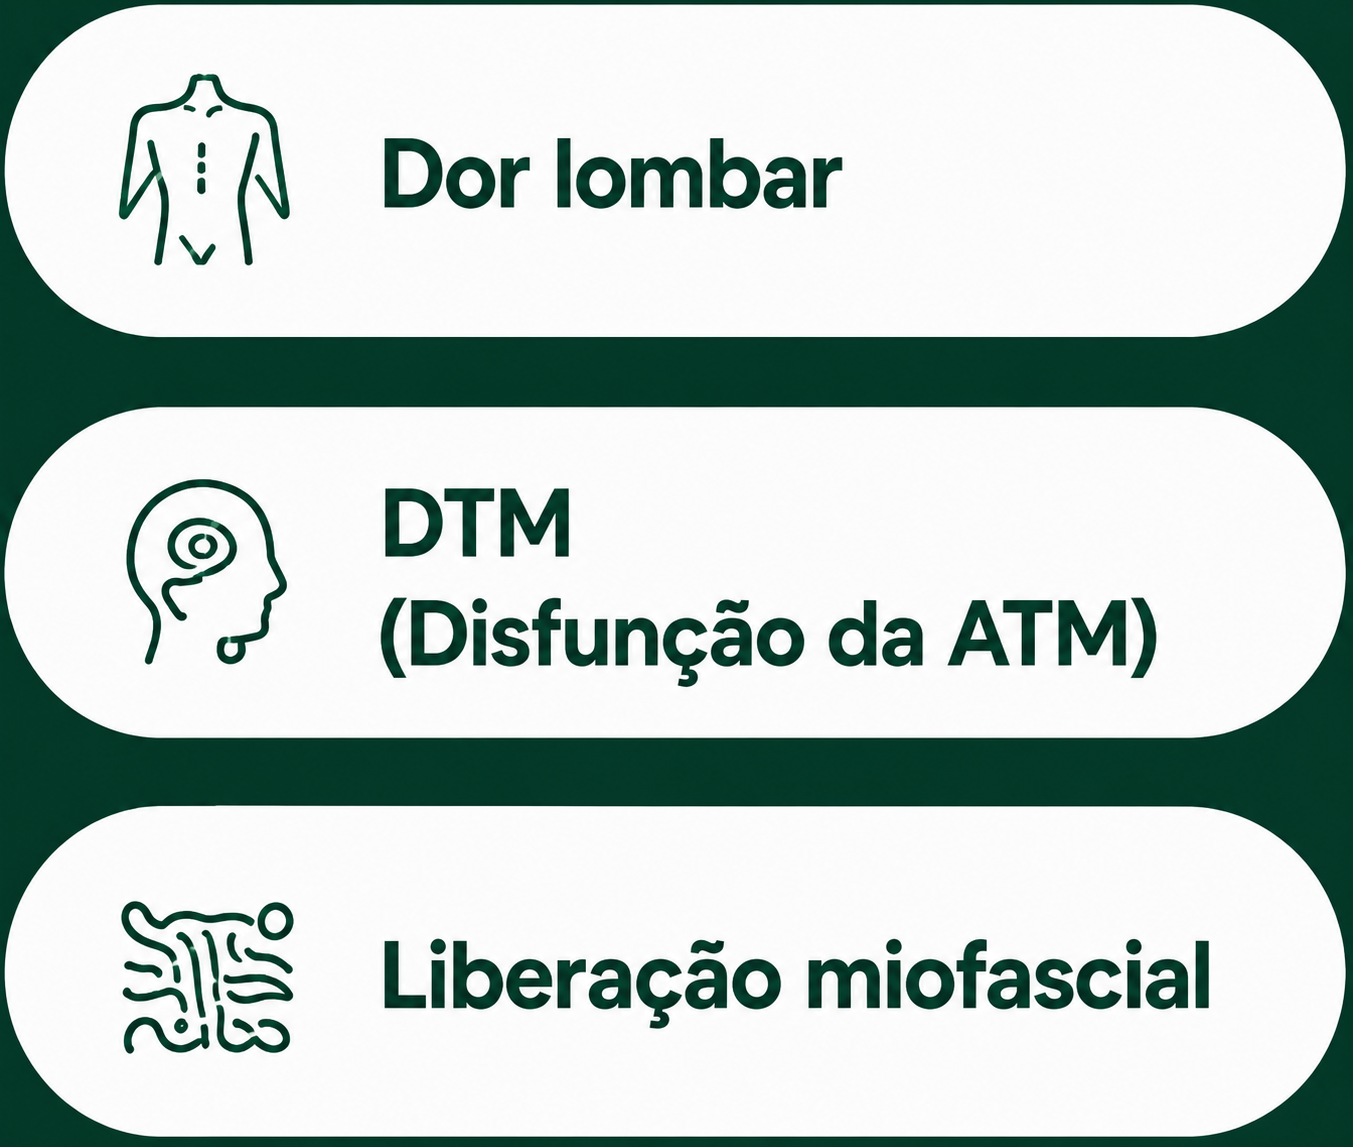
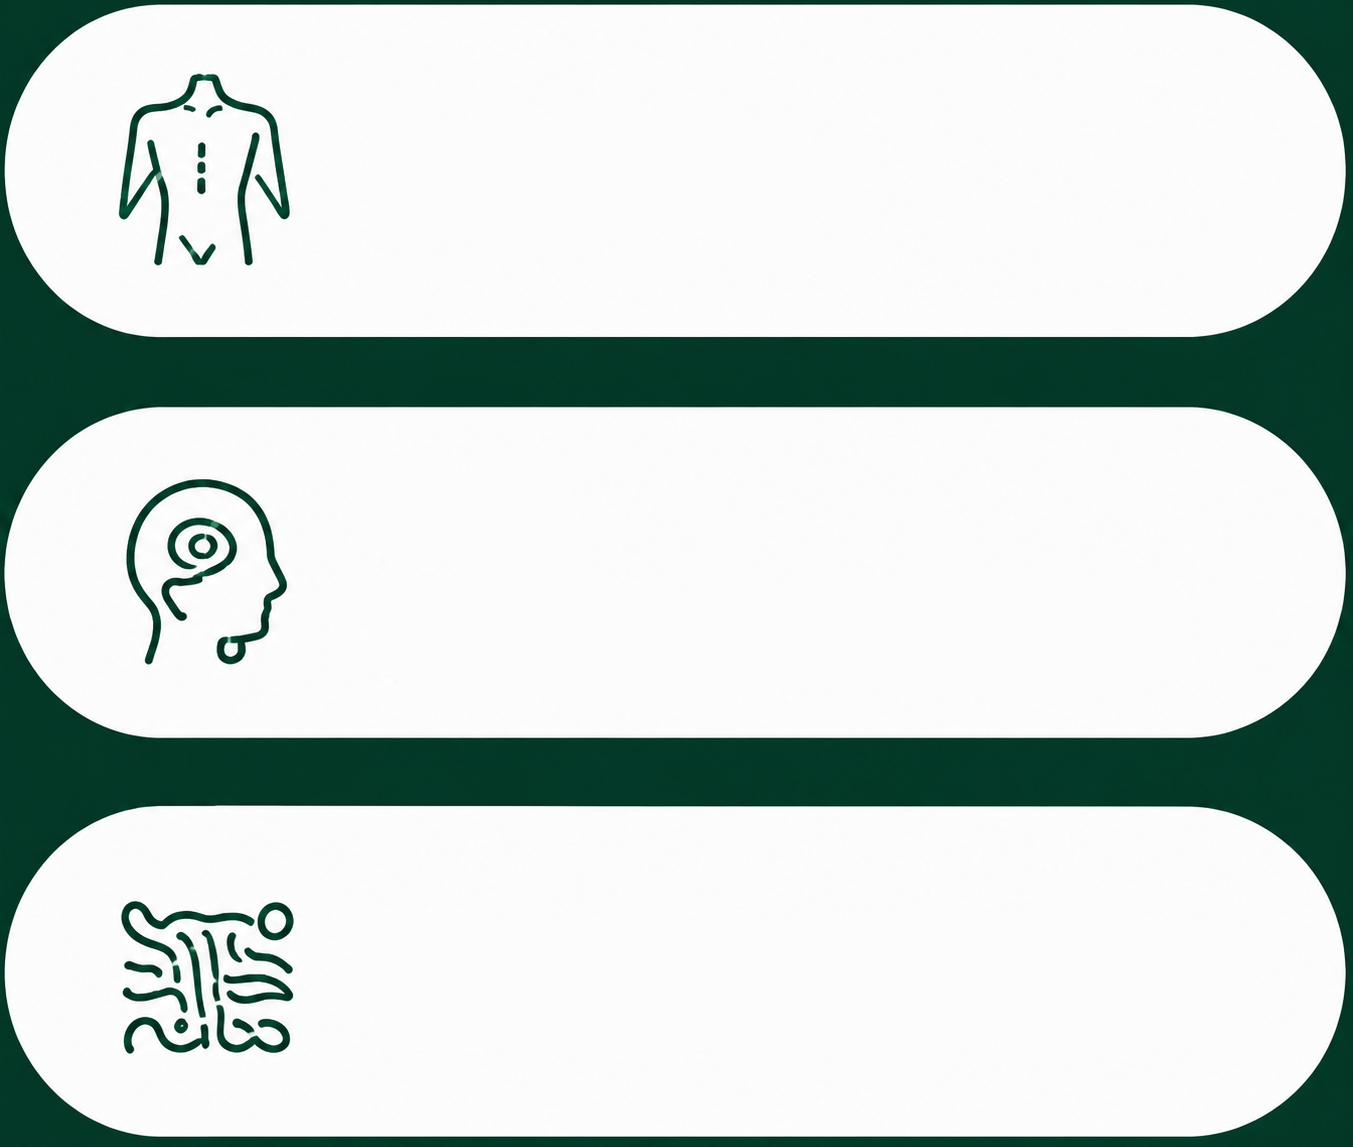
gsdgsd

diff --git a/css/style.css b/css/style.css
@@ -388,7 +388,7 @@ div.abter .col-lg-3 {
     padding: 0 12px;
     font-size: 0.8em;
 }
-.abter img {
+.abter .header_text>img {
     text-align: center;
     max-width: 140px;
     display: block;